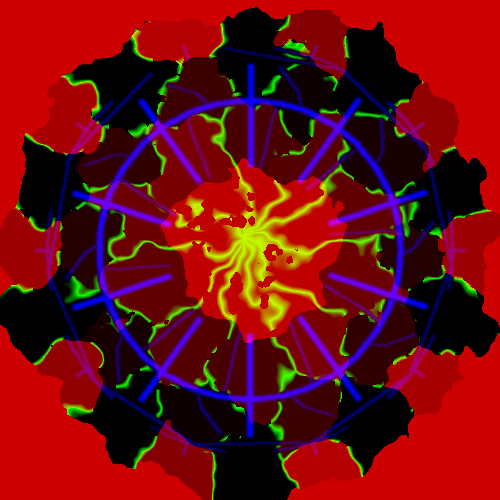
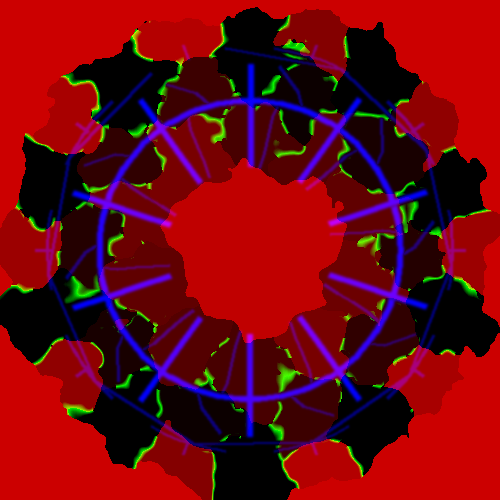
맵 6안: 보스 구역 벽 줄임 (중심부 쪽 열림 · 보스끼리 옆쪽 덩어리만 · 바깥만 반쯤)
Claude-Session: https://claude.ai/code/session_01Vq6fV1iyS6nFsGgiQg3SJW

diff --git a/src/proto/worldview.js b/src/proto/worldview.js
@@ -1,9 +1,9 @@
 /* 맵 만들기 ① — 맵 6안(10명 개인전 · 정사각형)대로 바닥 · 지역 · 경계 능선 · 큰길 · 샛길 깔기
    보기: 끌면 이동, 두 손가락(휠)로 확대. 지역 이름표는 화면 위 글자. 시작 기지 자리는 빛 고리로만 표시(다음 단계에서 진짜 기지) */
 import * as THREE from 'three';
-import { makeBloom } from '../core/hangar/bloom.js?v=11022324';
-import { makeMapFloor, MAP, toWorld } from './mapfloor.js?v=11022324';
-import { makePerf } from './perf.js?v=11022324';
+import { makeBloom } from '../core/hangar/bloom.js?v=11022328';
+import { makeMapFloor, MAP, toWorld } from './mapfloor.js?v=11022328';
+import { makePerf } from './perf.js?v=11022328';
 
 const $ = s => document.querySelector(s), clamp = THREE.MathUtils.clamp;
 const VIEWS = [{ name: '게임 시점', h: 60, tilt: .3 }, { name: '지역 보기', h: 180, tilt: .25 }, { name: '맵 전체', h: 560, tilt: .02 }];
@@ -13,8 +13,8 @@ export async function start(canvas, onProgress = () => {}) {
   renderer.toneMapping = THREE.NoToneMapping; renderer.autoClear = false; renderer.setClearColor(0, 1);
   const scene = new THREE.Scene(), camera = new THREE.PerspectiveCamera(40, 1, 1, 3000), bloom = makeBloom(renderer, { samples: 0 });
   onProgress(.2);
-  const floor = await makeMapFloor(renderer, './assets/map/v6.png?v=11022324');
-  const J = await (await fetch('./assets/map/v6.json?v=11022324')).json();
+  const floor = await makeMapFloor(renderer, './assets/map/v6.png?v=11022328');
+  const J = await (await fetch('./assets/map/v6.json?v=11022328')).json();
   const SPAWN = J.spawns, ALL = [...J.labels.map(o => [o.x, o.y, o.n, o.l]), [500, 500, '무너진 중심부', 'Lv 10+']];
   onProgress(.7);
   /* 시작 기지 자리: 빛 고리 (임시) */

diff --git a/src/proto/padringview.js b/src/proto/padringview.js
@@ -1,17 +1,17 @@
 /* 시작 기지 부품 보기 ① — 자기장 판(격납고 그대로) + 금테 네 갈래 별 */
 import * as THREE from 'three';
 import { RoomEnvironment } from 'three/addons/environments/RoomEnvironment.js';
-import { makeBloom } from '../core/hangar/bloom.js?v=11022324';
-import { makePad } from '../core/hangar/pad.js?v=11022324';
-import { makeMag } from '../core/hangar/mag.js?v=11022324';
+import { makeBloom } from '../core/hangar/bloom.js?v=11022328';
+import { makePad } from '../core/hangar/pad.js?v=11022328';
+import { makeMag } from '../core/hangar/mag.js?v=11022328';
 import { buildShip, engineSpots } from '../core/ships/build.js';
-import { makeGoldStar } from './goldstar.js?v=11022324';
-import { makeArena, SPEED, WAVE_R0 } from './arena.js?v=11022324';
-import { makeGuardians, GUARD } from './guardian.js?v=11022324';
-import { makeFloor, FLOORS } from './floor.js?v=11022324';
-import { makePerf } from './perf.js?v=11022324';
-import { makeBirth, BIRTH } from './birth.js?v=11022324';
-import { makeSortie, SORTIE } from './sortie.js?v=11022324';
+import { makeGoldStar } from './goldstar.js?v=11022328';
+import { makeArena, SPEED, WAVE_R0 } from './arena.js?v=11022328';
+import { makeGuardians, GUARD } from './guardian.js?v=11022328';
+import { makeFloor, FLOORS } from './floor.js?v=11022328';
+import { makePerf } from './perf.js?v=11022328';
+import { makeBirth, BIRTH } from './birth.js?v=11022328';
+import { makeSortie, SORTIE } from './sortie.js?v=11022328';
 
 const $ = s => document.querySelector(s), clamp = THREE.MathUtils.clamp;
 const SHIPL = 2.9;     /* 기체 길이: 자기장 판(지름 3.2)보다 약간 작게 */

diff --git a/src/proto/rockview.js b/src/proto/rockview.js
@@ -1,18 +1,18 @@
 /* 벽 보기 (지금은 용암 흑요석) — 맵 미리보기와 같은 하늘(행성 위 궤도), 같은 위에서 본 카메라 */
 import * as THREE from 'three';
 import { RoomEnvironment } from 'three/addons/environments/RoomEnvironment.js';
-import { makeBloom } from '../core/hangar/bloom.js?v=11022324';
-import { makePerf } from './perf.js?v=11022324';
+import { makeBloom } from '../core/hangar/bloom.js?v=11022328';
+import { makePerf } from './perf.js?v=11022328';
 import { buildShip, engineSpots } from '../core/ships/build.js';
 import { makeGlow } from '../preview/glow.js';
 import { planetShader } from '../core/planet.js';
 import { planetFor } from '../data/planets.js';
-import { makeIceRidge } from './ice.js?v=11022324';
-import { makeCrystalRidge } from './crystal.js?v=11022324';
-import { makeRuinRidge, updateRuins } from './ruins.js?v=11022324';
-import { makeCoralRidge } from './coral.js?v=11022324';
-import { makeWalls } from './wallhit.js?v=11022324';
-import { makeRidge, updateRidge, hitWall } from './rocks.js?v=11022324';
+import { makeIceRidge } from './ice.js?v=11022328';
+import { makeCrystalRidge } from './crystal.js?v=11022328';
+import { makeRuinRidge, updateRuins } from './ruins.js?v=11022328';
+import { makeCoralRidge } from './coral.js?v=11022328';
+import { makeWalls } from './wallhit.js?v=11022328';
+import { makeRidge, updateRidge, hitWall } from './rocks.js?v=11022328';
 
 const $ = s => document.querySelector(s), clamp = THREE.MathUtils.clamp, rnd = (a, b) => a + Math.random() * (b - a);
 const VIEWS = [

diff --git a/src/proto/baseview.js b/src/proto/baseview.js
@@ -5,17 +5,17 @@
    모든 움직임은 판의 자기장 주기(4.2초)에 맞춘다 — 판에 불이 다 들어오는 순간 기체가 뜬다. */
 import * as THREE from 'three';
 import { RoomEnvironment } from 'three/addons/environments/RoomEnvironment.js';
-import { makeBloom } from '../core/hangar/bloom.js?v=11022324';
-import { makePad } from '../core/hangar/pad.js?v=11022324';
-import { makeMag } from '../core/hangar/mag.js?v=11022324';
+import { makeBloom } from '../core/hangar/bloom.js?v=11022328';
+import { makePad } from '../core/hangar/pad.js?v=11022328';
+import { makeMag } from '../core/hangar/mag.js?v=11022328';
 import { buildShip, engineSpots } from '../core/ships/build.js';
 import { makeGlow } from '../preview/glow.js';
 import { filmMaterial, crystalMaterial } from '../preview/fxmat.js';
 import { planetShader } from '../core/planet.js';
 import { planetFor } from '../data/planets.js';
-import { makeRidge, updateRidge } from './rocks.js?v=11022324';
-import { makeFloor, FLOORS } from './floor.js?v=11022324';
-import { makePerf } from './perf.js?v=11022324';
+import { makeRidge, updateRidge } from './rocks.js?v=11022328';
+import { makeFloor, FLOORS } from './floor.js?v=11022328';
+import { makePerf } from './perf.js?v=11022328';
 
 const $ = s => document.querySelector(s), clamp = THREE.MathUtils.clamp, lerp = THREE.MathUtils.lerp, rnd = (a, b) => a + Math.random() * (b - a);
 const ease = t => t < .5 ? 4 * t * t * t : 1 - Math.pow(-2 * t + 2, 3) / 2;

diff --git a/index.html b/index.html
@@ -149,12 +149,12 @@ button{font:inherit;color:inherit;background:none;border:0;padding:0;cursor:poin
   <a class="sub" href="reflect.html">반사 시험판으로</a>
   <a class="sub" href="map.html?v=11021548">맵 미리보기</a>
   <a class="sub" href="tools/ships.html">기체·도색 보기</a>
-  <a class="sub" href="rocks.html?v=11022324">맵 벽 보기</a>
+  <a class="sub" href="rocks.html?v=11022328">맵 벽 보기</a>
   <a class="sub" href="floor.html?v=11021548">지역 바닥 보기</a>
-  <a class="sub" href="base.html?v=11022324">시작 기지 보기</a>
-  <a class="sub" href="padring.html?v=11022324">시작 기지: 태어나는 곳</a>
-  <a class="sub" href="fall.html?v=11022324">유성 시안</a>
-  <a class="sub" href="world.html?v=11022324">맵 만들기</a>
+  <a class="sub" href="base.html?v=11022328">시작 기지 보기</a>
+  <a class="sub" href="padring.html?v=11022328">시작 기지: 태어나는 곳</a>
+  <a class="sub" href="fall.html?v=11022328">유성 시안</a>
+  <a class="sub" href="world.html?v=11022328">맵 만들기</a>
 </div></section>
 <section class="card ask" id="lvup" hidden><div>
   <span class="en">LEVEL UP</span><h3 style="margin:0;font-weight:500;font-size:20px;color:var(--g)">레벨 2</h3>

diff --git a/src/proto/meteorview.js b/src/proto/meteorview.js
@@ -9,11 +9,11 @@
    무게: 빛 가닥 700개는 한 묶음으로 한 번에(위치는 셰이더가 계산), 부스러기는 점 묶음 한 번 */
 import * as THREE from 'three';
 import { RoomEnvironment } from 'three/addons/environments/RoomEnvironment.js';
-import { makeBloom } from '../core/hangar/bloom.js?v=11022324';
-import { makePad } from '../core/hangar/pad.js?v=11022324';
-import { makeGoldStar } from './goldstar.js?v=11022324';
-import { makePerf } from './perf.js?v=11022324';
-import { makeMeteor, METEOR } from './meteor.js?v=11022324';
+import { makeBloom } from '../core/hangar/bloom.js?v=11022328';
+import { makePad } from '../core/hangar/pad.js?v=11022328';
+import { makeGoldStar } from './goldstar.js?v=11022328';
+import { makePerf } from './perf.js?v=11022328';
+import { makeMeteor, METEOR } from './meteor.js?v=11022328';
 
 const $ = s => document.querySelector(s), clamp = THREE.MathUtils.clamp;
 const { FALL } = METEOR, LINGER = .8, REST = .7, CYCLE = REST + FALL + LINGER;

diff --git a/src/proto/ice.js b/src/proto/ice.js
@@ -6,7 +6,7 @@
    투명 재질(뒤를 비추는 계산)은 폰에 무거워서 쓰지 않고, 속은 보는 방향으로 몇 겹 들여다본 잡음으로 흉내 낸다. */
 import * as THREE from 'three';
 import { mergeVertices } from 'three/addons/utils/BufferGeometryUtils.js';
-import { HITS } from './rocks.js?v=11022324';
+import { HITS } from './rocks.js?v=11022328';
 
 function hash(a, b, c) { const s = Math.sin(a * 127.1 + b * 311.7 + c * 74.7) * 43758.5453; return s - Math.floor(s); }
 function vn(x, y, z) { const ix = Math.floor(x), iy = Math.floor(y), iz = Math.floor(z), fx = x - ix, fy = y - iy, fz = z - iz, s = t => t * t * (3 - 2 * t), u = s(fx), v = s(fy), w = s(fz), L = (a, b, t) => a + (b - a) * t;

diff --git a/src/proto/sortie.js b/src/proto/sortie.js
@@ -8,7 +8,7 @@
    지나간 길엔 짧은 엔진 빛 꼬리가 남았다 빠르게 사라짐. 적 탄이 막에 맞아 물결치는 것·실제 이동 속도는 맵이 생기면 연결
    무게: 불꽃·꼬리는 띠 몇 장, 막은 구 하나, 방울은 점 묶음 하나, 충격파 일그러짐은 빛 번짐 마무리 단계에 얹음 */
 import * as THREE from 'three';
-import { filmMaterial } from '../preview/fxmat.js?v=11022324';
+import { filmMaterial } from '../preview/fxmat.js?v=11022328';
 
 export const SORTIE = { IGN: .55, SHIELD: 3, BOOST: 5 };
 const AB = { transparent: true, depthWrite: false, blending: THREE.AdditiveBlending };

diff --git a/base.html b/base.html
@@ -63,7 +63,7 @@ button{font:inherit;color:inherit;background:none;border:0;padding:0;cursor:poin
 <div id="load"><p>기지를 세우고 있어요</p><div class="b"><i></i></div></div>
 <div id="rot">기기를 가로로 돌려 주세요</div>
 <script type="module">
-import { start } from './src/proto/baseview.js?v=11022324';
+import { start } from './src/proto/baseview.js?v=11022328';
 const bar = document.querySelector('#load i');
 start(document.querySelector('#cv'), p => { bar.style.transform = `scaleX(${p})`; })
   .then(() => setTimeout(() => document.querySelector('#load').classList.add('done'), 300))

diff --git a/padring.html b/padring.html
@@ -63,7 +63,7 @@ button{font:inherit;color:inherit;background:none;border:0;padding:0;cursor:poin
 <div id="load"><p>판을 놓고 있어요</p><div class="b"><i></i></div></div>
 <div id="rot">기기를 가로로 돌려 주세요</div>
 <script type="module">
-import { start } from './src/proto/padringview.js?v=11022324';
+import { start } from './src/proto/padringview.js?v=11022328';
 const bar = document.querySelector('#load i');
 start(document.querySelector('#cv'), p => { bar.style.transform = `scaleX(${p})`; })
   .then(() => setTimeout(() => document.querySelector('#load').classList.add('done'), 300))

diff --git a/fall.html b/fall.html
@@ -63,7 +63,7 @@ button{font:inherit;color:inherit;background:none;border:0;padding:0;cursor:poin
 <div id="load"><p>판을 놓고 있어요</p><div class="b"><i></i></div></div>
 <div id="rot">기기를 가로로 돌려 주세요</div>
 <script type="module">
-import { start } from './src/proto/meteorview.js?v=11022324';
+import { start } from './src/proto/meteorview.js?v=11022328';
 const bar = document.querySelector('#load i');
 start(document.querySelector('#cv'), p => { bar.style.transform = `scaleX(${p})`; })
   .then(() => setTimeout(() => document.querySelector('#load').classList.add('done'), 300))

diff --git a/rocks.html b/rocks.html
@@ -65,7 +65,7 @@ button{font:inherit;color:inherit;background:none;border:0;padding:0;cursor:poin
 <div id="load"><p>바위를 깎고 있어요</p><div class="b"><i></i></div></div>
 <div id="rot">기기를 가로로 돌려 주세요</div>
 <script type="module">
-import { start } from './src/proto/rockview.js?v=11022324';
+import { start } from './src/proto/rockview.js?v=11022328';
 const bar = document.querySelector('#load i');
 start(document.querySelector('#cv'), p => { bar.style.transform = `scaleX(${p})`; })
   .then(() => setTimeout(() => document.querySelector('#load').classList.add('done'), 300))
